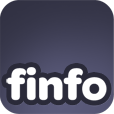
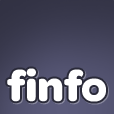
updated assets (deep purple)

diff --git a/Classes/EducationTableViewController.m b/Classes/EducationTableViewController.m
@@ -129,6 +129,15 @@
 #pragma -
 #pragma Fetched Result Controller
 
+- (NSFetchedResultsController*)fetchedResultController
+{
+    if ( !fetchedResultController)
+    {
+        fetchedResultController = [[self fetchedResultControllerOfType:segmentedControl.selectedSegmentIndex] retain];
+    }
+    return fetchedResultController;
+}
+
 - (NSFetchedResultsController*)fetchedResultControllerOfType:(NSInteger)selectedSegmentIndex
 {
     NSFetchRequest* fetchRequest = [[[NSFetchRequest alloc] init] autorelease];

diff --git a/Classes/WorkTableViewController.m b/Classes/WorkTableViewController.m
@@ -128,6 +128,15 @@
 #pragma -
 #pragma Fetched Result Controller
 
+- (NSFetchedResultsController*)fetchedResultController
+{
+    if ( !fetchedResultController)
+    {
+        fetchedResultController = [[self fetchedResultControllerOfType:segmentedControl.selectedSegmentIndex] retain];
+    }
+    return fetchedResultController;
+}
+
 - (NSFetchedResultsController*)fetchedResultControllerOfType:(NSInteger)selectedSegmentIndex
 {
     NSFetchRequest* fetchRequest = [[[NSFetchRequest alloc] init] autorelease];
